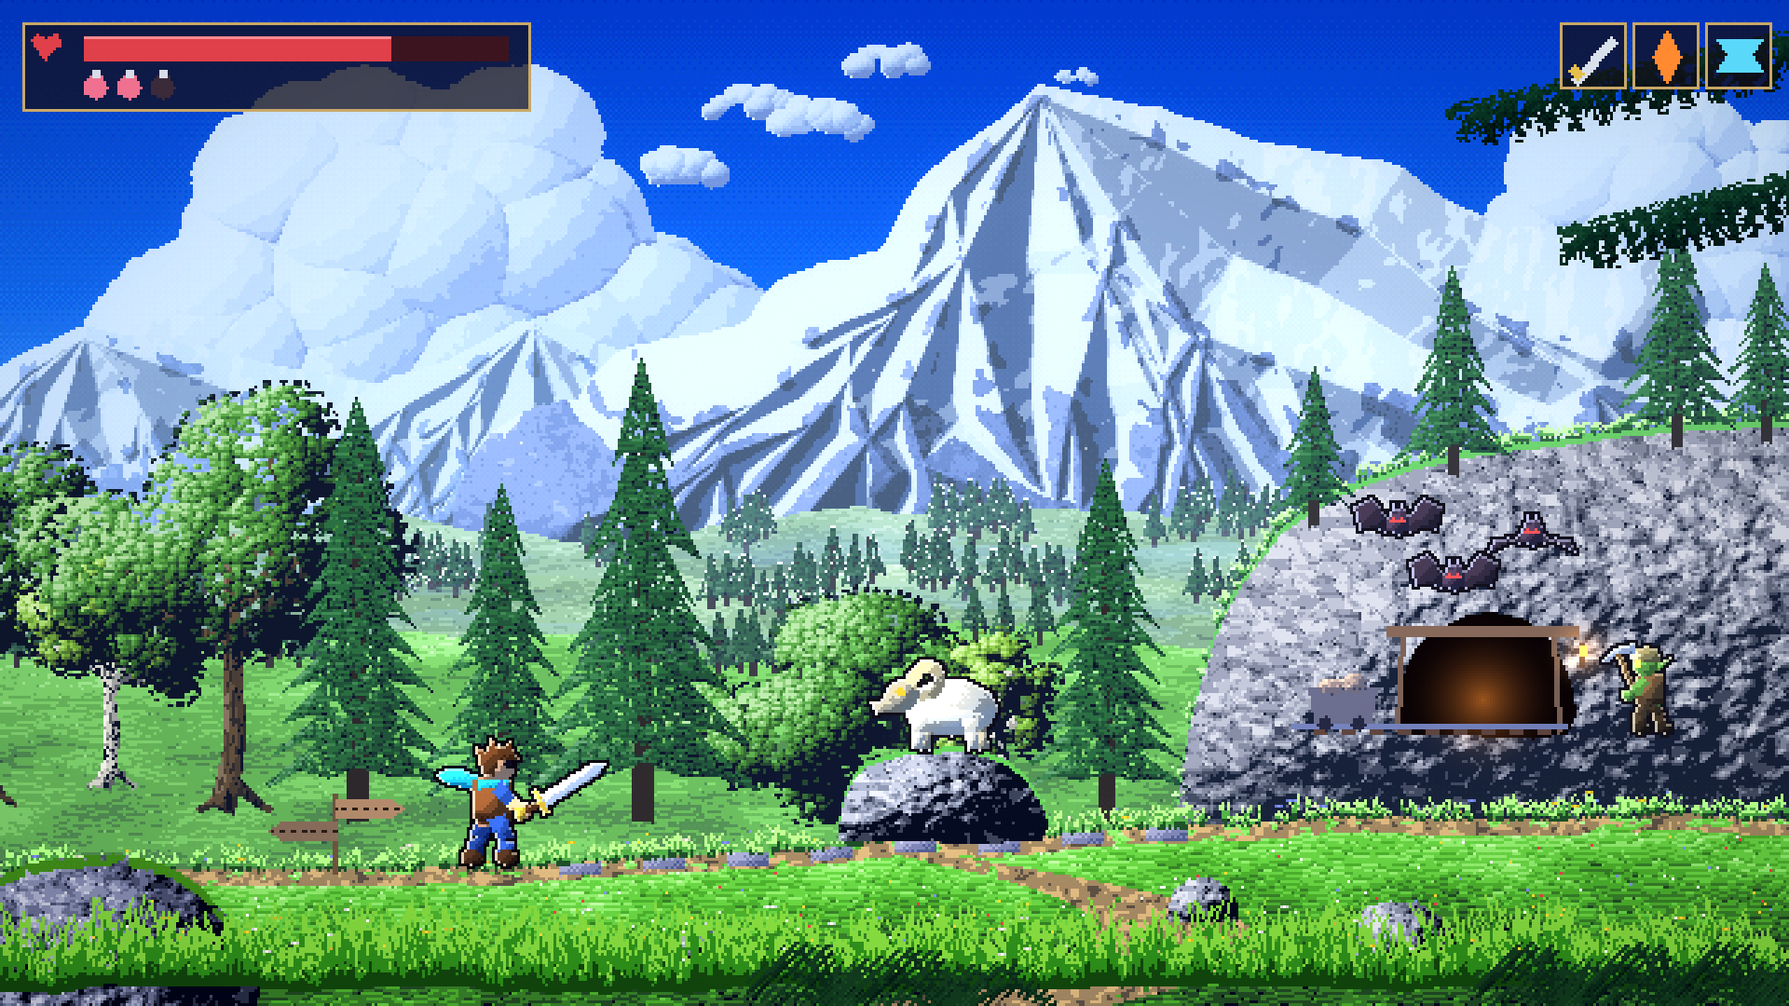
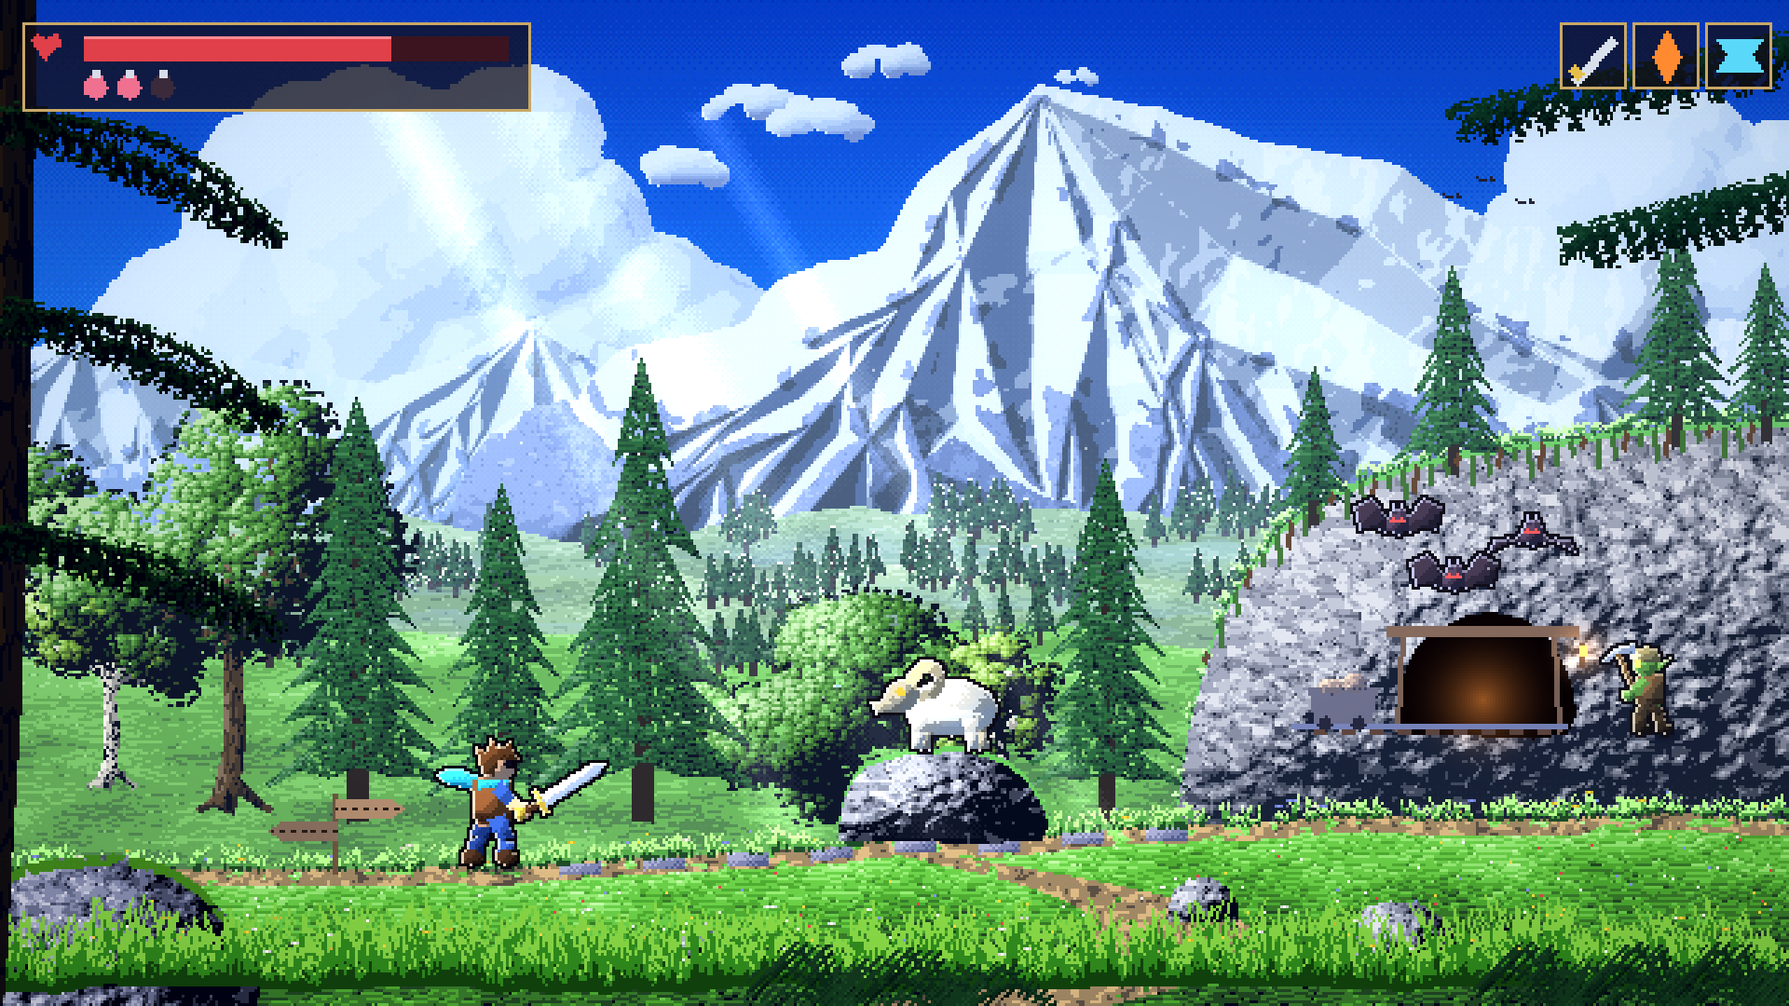
ART13b: sunset town and gothic castle back, with a realism pass on all four stages: backlit facades, mist between layers, light shafts, coloured window light, contact shadows, near-camera framing, more props
Claude-Session: https://claude.ai/code/session_018E1RbT7Agev2Psz4WcAtF7

diff --git a/tools/art/final_stages.py b/tools/art/final_stages.py
@@ -471,6 +471,101 @@ def near_bushes(img, seed, y, alb, xs, r=(14, 26)):
     leaves(img, m, hf * 1.3, alb, 1.0, seed + 1, 5.0, 1.2, ramp=make_ramp(alb, 7, hi_k=0.3) * 0.8)
 
 
+
+# ---------------------------------------------------------------------------------------------- atmosphere and props (round 5)
+
+def haze_band(img, y, thick, a, col, seed, stretch=60, m=None):
+    """A drifting band of mist or haze between two distance layers (as in the swamp), dithered into a few steps."""
+    n = fbm(XX / stretch, YY / 6, 4, seed)
+    band = np.clip(1 - np.abs(YY - y) / thick, 0, 1) ** 1.2
+    v = np.clip(band * (0.35 + n), 0, 1)
+    q = np.floor(v * 5 + BAY * 0.9) / 5 * a
+    if m is not None:
+        q = q * m
+    img[:] = img * (1 - q[..., None]) + C(col) * q[..., None]
+
+
+def light_shafts(img, beams, col, slope, alpha, y0=0, y1=H):
+    """Soft light shafts at an angle: (x at y=0, width, strength) each, quantised in 3 steps."""
+    acc = np.zeros((H, W), np.float32)
+    for (x, wd, k) in beams:
+        acc += np.clip(1 - np.abs(XX - (x + YY * slope)) / wd, 0, 1) * k
+    acc *= (YY >= y0) & (YY < y1)
+    q = np.floor(np.clip(acc, 0, 1) * 3 + BAY * 0.9) / 3
+    img[:] = img + C(col) * (q * alpha)[..., None]
+
+
+def bunting(img, x0, y0, x1, y1, sag, d, seed, cols=('#c83a3a', '#e8b040', '#3a6ac8', '#f0e8d8', '#4a9a5a'), glow_k=0.0, size=1.0):
+    """A string of cloth flags strung across the street, sagging in the middle; backlit cloth glows a little."""
+    rng = np.random.default_rng(seed)
+    n = int(abs(x1 - x0) / (9 * size))
+    pts = [(x0 + (x1 - x0) * t, y0 + (y1 - y0) * t + sag * 4 * t * (1 - t)) for t in np.linspace(0, 1, n * 3 + 1)]
+    fill(img, mask([taper(pts, 0.7 * size, 0.7 * size, len(pts) - 1)]), aerial(C('#2a2020'), d))
+    for k in range(n):
+        t = (k + 0.5) / n
+        x = x0 + (x1 - x0) * t
+        y = y0 + (y1 - y0) * t + sag * 4 * t * (1 - t)
+        sw = rng.uniform(-1, 1)
+        f = mask([poly((x - 3 * size, y), (x + 3 * size, y), (x + sw * size, y + 7 * size))])
+        c = C(cols[k % len(cols)])
+        fill(img, f, aerial(c * (0.75 + glow_k), d))
+        fill(img, f & ~np.roll(f, 1, 0), aerial(mix(c, C('#ffffff'), 0.4), d))
+
+
+def hay_cart(img, x, base, s, d, seed):
+    k = lambda v: v * s
+    body = rect(x - k(20), base - k(14), x + k(18), base - k(7))
+    ramp_fill(img, body, 0.4 + np.where(np.abs((YY - base + k(10)) % max(1, k(2.5))) < 0.6, -0.2, 0), make_ramp(C('#8a5a32'), 6), d)
+    hay, hh = domes([(x - k(8), base - k(16), k(13), k(7), 0), (x + k(6), base - k(17), k(12), k(8), 1)], 0.5, seed)
+    F1, F2, DX, DY, ID = worley(1.2, seed, 0.5, 2.0)
+    ramp_fill(img, hay, 0.25 + macro_light(hh) * 0.6 + (ID - 0.5) * 0.25, make_ramp(C('#d8b048'), 6, hi_k=0.5), d)
+    for wx in (x - k(12), x + k(10)):
+        wm = mask([ell(wx, base - k(5), k(5.5), k(5.5), 0, 20)]) & ~mask([ell(wx, base - k(5), k(4.2), k(4.2), 0, 20)])
+        fill(img, wm, aerial(C('#4a3020'), d))
+        for j in range(6):
+            a = j * math.pi / 3
+            fill(img, mask([cap((wx, base - k(5)), (wx + math.cos(a) * k(4.5), base - k(5) + math.sin(a) * k(4.5)), 0.5)]), aerial(C('#5a3a24'), d))
+    fill(img, mask([cap((x + k(18), base - k(9)), (x + k(34), base - k(4)), 0.8)]), aerial(C('#5a3a24'), d))
+
+
+def lamp_post(img, x, base, h, d, lit_=True):
+    fill(img, rect(x - 1, base - h, x + 1, base), aerial(C('#1e1a1c'), d))
+    fill(img, rect(x - 3, base - 3, x + 3, base), aerial(C('#2a2426'), d))
+    fill(img, mask([cap((x, base - h), (x + 6, base - h), 0.6)]), aerial(C('#1e1a1c'), d))
+    lx, ly = x + 6, base - h + 2
+    fill(img, mask([poly((lx - 3, ly), (lx + 3, ly), (lx + 2, ly + 7), (lx - 2, ly + 7))]), C('#ffd070') if lit_ else aerial(C('#3a3030'), d))
+    fill(img, mask([poly((lx - 4, ly), (lx, ly - 3), (lx + 4, ly))]), aerial(C('#1e1a1c'), d))
+    if lit_:
+        glow(img, lx, ly + 3, 34, C('#ff9a40'), 0.5)
+
+
+def sheep(img, x, y, s, d):
+    b, hb = domes([(x, y - 3 * s, 4 * s, 3 * s, 0), (x - 2 * s, y - 4 * s, 2.5 * s, 2 * s, 1), (x + 2 * s, y - 4 * s, 2.5 * s, 2 * s, 1)], 0.6, int(x))
+    ramp_fill(img, b, 0.4 + macro_light(hb) * 0.5, make_ramp(C('#f0ece0'), 5, hi_k=0.5), d)
+    fill(img, mask([ell(x + 4.5 * s, y - 3.5 * s, 1.4 * s, 1.2 * s, 0, 8)]), aerial(C('#2a2420'), d))
+    for lx in (x - 2 * s, x + 2 * s):
+        fill(img, rect(lx, y - 1, lx + max(1, 0.6 * s), y + 1), aerial(C('#2a2420'), d))
+    ground_shadow(img, x, y + 1, 5 * s, 1.2 * s, 0.25)
+
+
+def backlit(img, before, k):
+    """Everything drawn since `before` stands with the low sun behind it: its faces fall into cool shade (lit windows
+    and lamps keep their glow), and a thin warm rim lights its edges against the sky."""
+    ch = np.abs(img - before).sum(axis=2) > 0.12
+    ch = ch & _dilate(_dilate(ch, 1) & ~np.roll(~ch, 0), 0)
+    mx = img.max(axis=2)
+    bright = (mx > 0.8) & (img[..., 0] > img[..., 2] + 0.2)
+    sh = ch & ~bright
+    img[sh] = img[sh] * np.array([k, k * 0.95, k * 1.12], np.float32)
+    rim = ch & ~np.roll(ch, 1, 0)
+    img[rim] = mix(img[rim], C('#ffc890'), 0.55)
+
+
+def feet_shadows(img, pts, k=0.4):
+    for (x, y, r) in pts:
+        ground_shadow(img, x, y, r, max(1.5, r * 0.22), k)
+
+
 # ============================================================================================== Plains & Forest
 
 def farmhouse(img, x, base, s, d, roof='#b8a060', wall='#e8dcc0', beams='#5a3e2a', seed=0):
@@ -859,6 +954,9 @@ def mountains():
             mist_ = (np.clip(1 - np.abs(YY - (r[None, :] + 14)) / 10, 0, 1) * (fbm(XX / 40, YY / 6, 3, seed) > 0.45))
             a = np.floor(mist_ * 4 + BAY * 0.9) / 4 * 0.35
             img[:] = img * (1 - a[..., None]) + P['haze'] * a[..., None]
+    stream = (np.abs(XX - (240 + 90 * np.sin((YY - 240) / 9.0) + (YY - 240) * 2.2)) < 1.5 + (YY - 240) * 0.15) & (YY > 244) & (YY < 262)
+    fill(img, stream, aerial(C('#9ad0f0'), 0.5))                          # a stream winding down the valley
+    fill(img, stream & (fbm(XX / 2, YY, 1, 3) > 0.6), aerial(C('#ffffff'), 0.5))
     # the cliff with the mine cave on the right
     cliff = mask([spoly((420, 300), (430, 240), (452, 196), (490, 170), (560, 156), (640, 150), (660, 160), (660, 300), n=4)])
     crag(img, cliff, C('#8a8a98'), 0.62, 31, 0.8)
@@ -926,6 +1024,19 @@ def mountains():
     rock = mask([spoly((300, 300), (306, 276), (330, 268), (360, 272), (372, 300), n=4)])
     crag(img, rock, C('#9aa0b4'), 0.85, 51, 0.5)
     fill(img, rock & ~np.roll(rock, 2, 0), lit(C('#5a9a3a'), 0.9, 0.85))
+    for k in range(40):                                                   # grass and roots hanging over the cliff's edge
+        rx_ = 432 + k * 5
+        top_y = int(np.argmax(cliff[:, min(rx_, W - 1)]))
+        ln_ = 3 + (k * 7) % 9
+        fill(img, mask([cap((rx_, top_y + 2), (rx_ + (k % 3 - 1), top_y + 2 + ln_), 0.5)]), aerial(C('#3a6a28') if k % 3 else C('#5a3a24'), 0.62))
+    keep = img.copy()
+    light_shafts(img, [(120, 14, 1.0), (170, 22, 0.7), (230, 10, 0.9)], '#fffaf0', 0.55, 0.12, 40, 300)
+    img[:] = np.where((XX < 420)[..., None], img, keep)
+    for (bx, by) in ((520, 70), (532, 64), (546, 72)):                     # eagles circling
+        img[by, bx - 3:bx] = C('#2a2a3a')
+        img[by - 1, bx - 4] = img[by - 1, bx + 1] = C('#2a2a3a')
+        img[by, bx + 1:bx + 3] = C('#2a2a3a')
+    feet_shadows(img, [(176, int(gy[176]) + 1, 10), (590, 263, 10)], 0.35)
     # characters: the hero on the trail, a ram on the rock, a goblin miner at the cave, bats coming out of it
     key = {'dir': (-0.6, -0.55, 0.6), 'col': (1.05, 1.0, 0.9)}
     amb = (0.44, 0.52, 0.68)
@@ -959,8 +1070,21 @@ def mountains():
             m = mask(S)
             m = m | (_dilate(m, 2) & (np.sin((XX + YY) * 1.6) > 0.1))
             paint(img, m, cylinder(m, 2), C('#2e5a2a'), 1.0, None, 4, 0.1, 0.7, 0.6)
-    motes(img, 40, (0, 120, 640, 300), C('#ffffff'), 8, 0.5)
-    grade(img, 1.12, 1.15)
+    tr = mask([taper([(-14, 362), (-4, 200), (2, -10)], 30, 22, 4)])        # a fir trunk right at the left edge of the camera
+    bark(img, tr, 12, C('#4a3828') * 0.7, 1.0, 91)
+    for (y0_, y1_) in ((40, 70), (110, 136), (190, 210)):                 # drooping boughs off the trunk
+        S = [taper([(4, y0_), (60, y0_ + 12), (100, y1_ + 14)], 3, 1, 4)]
+        for j in range(16):
+            t = j / 16
+            bx_, by_ = 4 + 96 * t, y0_ + (y1_ + 14 - y0_) * t ** 1.3
+            S.append(taper([(bx_, by_), (bx_ - 5, by_ + 9 - 4 * t)], 2.6, 0.7, 2))
+            S.append(taper([(bx_, by_), (bx_ + 4, by_ + 10 - 4 * t)], 2.6, 0.7, 2))
+        bm = mask(S)
+        bm = bm | (_dilate(bm, 2) & (fbm(XX / 1.2, YY / 1.2, 1, y0_) > 0.45))
+        ramp_fill(img, bm, 0.15 + (fbm(XX / 1.3, YY / 2, 2, y0_) - 0.5) * 0.4 + np.where(bm & ~np.roll(bm, 2, 0), 0.3, 0),
+                  make_ramp(C('#1e4a2a'), 6, hi_k=0.3) * 0.75, 1.0)
+    motes(img, 60, (0, 120, 640, 300), C('#ffffff'), 8, 0.5)
+    grade(img, 1.14, 1.05)
     bloom(img, 0.95, 5, 0.4)
     vignette(img, 0.2)
     hud(img)
@@ -1200,7 +1324,16 @@ def city():
     # sunset clouds, lit from below and from the sun's side
     clouds(img, [(110, 70, 200, 22), (420, 96, 260, 20), (620, 150, 120, 12), (250, 150, 160, 12)], 4, alb='#e0a0a8', d=0.3)
     # the castle on its hill, far away, and the city walls in front of it
-    castle_far(img, 200, 190, 1.0, 0.2, 3)
+    before = img.copy()
+    castle_far(img, 200, 190, 1.0, 0.12, 3)
+    ch = np.abs(img - before).sum(axis=2) > 0.01
+    rimc = ch & ~np.roll(ch, -1, 1)
+    img[ch] = mix(img[ch], C('#6a4a6e'), 0.6)
+    img[rimc] = mix(img[rimc], C('#ffd0a0'), 0.7)
+    for (bx, by) in ((470, 120), (480, 114), (492, 122), (430, 140), (442, 136)):                  # birds against the sunset
+        img[by, bx - 2:bx] = C('#3a2030')
+        img[by - 1, bx - 3] = img[by - 1, bx + 1] = C('#3a2030')
+    haze_band(img, 196, 22, 0.55, '#f0a088', 31, 50)
     walls = rect(-10, 196, 660, 214)
     face(img, walls, C('#8a7a7a'), 0.25, 0.2)
     for cx in range(-10, 660, 6):
@@ -1212,6 +1345,7 @@ def city():
             face(img, rect(cx, 171, cx + 3, 176), C('#8a7a7a'), 0.55, 0.2)
         fill(img, mask([cap((tx, 171), (tx, 160), 0.5)]), aerial(C('#2a2028'), 0.2))
         fill(img, mask([poly((tx, 160), (tx + 9, 163), (tx, 166))]), aerial(C('#c82a2a'), 0.3))
+    haze_band(img, 218, 14, 0.45, '#f0a088', 32, 50)
     # far rooftops, a cathedral with a spire and a rose window
     for k in range(26):
         hx = -20 + k * 26 + rng.uniform(-6, 6)
@@ -1238,9 +1372,11 @@ def city():
         wx = cx - 22 + k * 18
         fill(img, rect(wx, 176, wx + 7, 214) & ~((YY < 180) & (np.abs(XX - wx - 3.5) > 2.5)), aerial(C('#ffb050'), 0.4))
     # the middle row of houses
+    before = img.copy()
     for k in range(9):
         hx = -30 + k * 76 + rng.uniform(-8, 8)
         house(img, hx, 262, rng.uniform(34, 46), int(rng.integers(3, 5)), 0.5, 200 + k, fh=16, roof=rng.choice(['gable', 'hip']), lights=0.45, wq=0.32)
+    backlit(img, before, 0.78)
     # a gap of evening haze between the rows
     a = (np.clip(1 - np.abs(YY - 250) / 30, 0, 1) * 0.35)
     a = np.floor(a * 6 + BAY * 0.9) / 6
@@ -1250,8 +1386,10 @@ def city():
     xs = [(-14, 58, 4, True), (48, 62, 3, False), (114, 54, 4, True), (178, 66, 3, True), (380, 60, 4, False), (446, 58, 3, True),
           (508, 70, 4, True), (582, 64, 3, False)]
     tops = {}
+    before_f = img.copy()
     for i, (hx, w, fl, shop) in enumerate(xs):
         tops[hx] = house(img, hx, street - 4, w, fl, 0.84, 300 + i, fh=24, roof='gable' if i % 3 else 'hip', shop=shop, lights=0.45, wq=0.22)
+    backlit(img, before_f, 0.62)
     sun_band(img, 120, 250, '#ff9a50', 0.22)
     # the side street: an arch and a lantern, the far street receding
     fill(img, rect(250, 190, 372, 300), lit(C('#6a5060'), 0.3, 0.5))
@@ -1298,6 +1436,22 @@ def city():
         cr = rect(bx, by - 9, bx + 10, by)
         face(img, cr, C('#a07848'), 0.7, 0.9)
         fill(img, cr & ((np.abs(XX - bx - 5) < 0.5) | (np.abs(YY - by + 4.5) < 0.5) | (XX > bx + 8)), lit(C('#6a4a2a'), 0.5, 0.9))
+    # light from the low sun streaming down the side street through the arch onto the cobbles
+    keep = img.copy()
+    light_shafts(img, [(312 - 290 * 0.25, 30, 1.0)], '#ffc890', 0.25, 0.22, 214, 360)
+    lim = mask([poly((268, 214), (356, 214), (420, 360), (240, 360))])
+    img[~lim] = keep[~lim]
+    for (pg_x, pg_y) in ((160, 186), (168, 187), (430, 178)):                                     # pigeons on a ridge
+        fill(img, mask([ell(pg_x, pg_y, 2.2, 1.4, 0, 8)]), C('#3a3038'))
+        img[pg_y - 1, pg_x + 2] = C('#3a3038')
+    bunting(img, 250, 226, 372, 226, 10, 0.6, 5, glow_k=0.25)                                  # flags across the side street
+    for (lx_, c_) in ((276, '#e8e0d0'), (290, '#8a3a3a'), (304, '#5a7a9a'), (330, '#e8e0d0'), (346, '#c8a040')):   # laundry
+        fill(img, rect(lx_, 247, lx_ + 8, 258), aerial(C(c_) * 0.8, 0.6))
+    fill(img, mask([cap((262, 246), (362, 246), 0.5)]), aerial(C('#2a2020'), 0.6))
+    hay_cart(img, 520, street + 6, 1.1, 0.88, 61)
+    lamp_post(img, 236, street + 8, 40, 0.9)
+    lamp_post(img, 470, street + 8, 40, 0.9)
+    feet_shadows(img, [(176, street + 6, 12), (290, street + 4, 16), (362, street + 4, 10), (422, street + 4, 10), (600, street + 6, 18)], 0.5)
     # characters: soldiers with shields on the street, a crossbowman on the roofs, the hero, a cannon on the wall
     key = {'dir': (0.8, -0.3, 0.5), 'col': (1.1, 0.78, 0.55)}
     amb = (0.36, 0.34, 0.55)
@@ -1325,7 +1479,12 @@ def city():
     glow(img, 50, 163, 60, C('#ff9a40'), 0.45)
     near = mask([ell(-6, 370, 40, 46, 0, 24)])
     paint(img, near, cylinder(near, 16), C('#5a3a22'), 1.0, np.where(np.abs(np.abs(YY - 340) - 10) < 1.2, -0.5, 0), 4, 0.0, 0.7, 0.6)
-    motes(img, 50, (0, 150, 640, 300), C('#ffd8a0'), 6, 0.6)
+    bunting(img, 30, 70, 660, 96, 50, 1.0, 9, glow_k=-0.25, size=2.2)                                      # flags right in front of the camera
+    nb = mask([ell(606, 356, 44, 30, 0, 30), ell(556, 370, 26, 24, 0, 24)])                        # dark barrel and sacks close to the lens
+    fill(img, nb, C('#140c0a'))
+    fill(img, nb & ~np.roll(nb, 2, 0), C('#5a3424'))
+    fill(img, mask([ell(606, 356, 44, 30, 0, 30)]) & (np.abs(np.abs(XX - 606) - 26) < 2), C('#0a0606'))
+    motes(img, 80, (0, 150, 640, 300), C('#ffd8a0'), 6, 0.6)
     grade(img, 1.18, 1.1)
     bloom(img, 0.75)
     vignette(img, 0.25)
@@ -1576,6 +1735,42 @@ def castle():
         a2 = ang + math.radians(5 * j)
         tb = mask([cap((px_ + math.sin(a2) * 150 - 18, py_ + math.cos(a2) * 150), (px_ + math.sin(a2) * 150 + 18, py_ + math.cos(a2) * 150 - 6), 2)])
         fill(img, tb & ~blade, C('#c8d0e0'), 0.25 / j)
+    # torch light pooling on the floor, cold mist creeping along it, dust drifting in the window light
+    for (tx_, ty_) in ((52, floor_y + 6), (222, floor_y + 6), (418, floor_y + 6), (588, floor_y + 6)):
+        dd = np.hypot((XX - tx_) / 2.6, YY - ty_)
+        a = np.floor(np.clip(1 - dd / 22, 0, 1) * 4 + BAY * 0.9) / 4 * 0.35 * (YY > floor_y)
+        img[:] = img + C('#ff9a40') * a[..., None]
+    for wx in (96, 232, 408, 544):                                        # stained-glass colours spilling onto the floor
+        strip = img[60:200, wx - 18:wx + 18].mean(axis=0)
+        for xx in range(36):
+            c = strip[xx] / max(1e-3, strip[xx].max())
+            for yy in range(floor_y + 2, floor_y + 24):
+                x_ = wx - 18 + xx + int((yy - floor_y) * 1.6) + 20
+                if 0 <= x_ < W and (BAY[yy, x_] < 0.55):
+                    img[yy, x_] = img[yy, x_] + c * 0.28
+    haze_band(img, floor_y - 4, 16, 0.4, '#8a7a98', 33, 40)
+    haze_band(img, 212, 30, 0.18, '#6a5a78', 34, 70)
+    rng5 = np.random.default_rng(35)
+    for _ in range(200):
+        x_, y_ = int(rng5.uniform(0, W)), int(rng5.uniform(40, floor_y))
+        if acc[y_, x_] > 0.3:
+            img[y_, x_] = mix(img[y_, x_], C('#e8eeff'), 0.8)
+    for (bx_, by_) in ((330, floor_y + 20), (520, floor_y + 22), (120, floor_y + 18)):           # cracked tiles, rubble
+        cr_ = (np.abs(fbm(XX / 6, YY / 3, 3, bx_) - 0.5) < 0.02) & (np.hypot(XX - bx_, (YY - by_) * 2) < 26) & (YY > floor_y + 3)
+        fill(img, cr_, C('#0e080c'))
+        for j in range(5):
+            rx_, ry_ = bx_ + rng5.uniform(-14, 14), by_ + rng5.uniform(-3, 3)
+            fill(img, mask([ell(rx_, ry_, rng5.uniform(1, 2.4), rng5.uniform(0.8, 1.6), 0, 8)]), lit(C('#8a7a7a'), 0.5, 0.9))
+    for (cx_, cy_) in ((100, floor_y), (540, floor_y)):                                          # tall floor candelabras, dripping wax
+        fill(img, rect(cx_ - 1, cy_ - 46, cx_ + 1, cy_), lit(C('#c8a040'), 0.6, 0.8))
+        fill(img, mask([poly((cx_ - 6, cy_), (cx_ + 6, cy_), (cx_ + 2, cy_ - 4), (cx_ - 2, cy_ - 4))]), lit(C('#c8a040'), 0.6, 0.8))
+        fill(img, mask([cap((cx_ - 9, cy_ - 46), (cx_ + 9, cy_ - 46), 1.0)]), lit(C('#c8a040'), 0.7, 0.8))
+        for j in (-8, 0, 8):
+            fill(img, rect(cx_ + j - 1, cy_ - 56 + (j == 0) * -3, cx_ + j + 2, cy_ - 46), C('#efe6d0'))
+            img[cy_ - 50 + (j == 0) * -3, cx_ + j + 1] = C('#d8cbb0')
+            img[cy_ - 59 + (j == 0) * -3:cy_ - 56 + (j == 0) * -3, cx_ + j] = C('#ffd070')
+            glow(img, cx_ + j, cy_ - 58, 16, C('#ff9a40'), 0.45)
+    feet_shadows(img, [(150, floor_y + 2, 12), (488, floor_y + 2, 12), (572, floor_y + 2, 12)], 0.5)
     # characters: royal guards with halberds, the gargoyle waking up, the hero
     key = {'dir': (-0.3, -0.6, 0.6), 'col': (0.8, 0.85, 1.05)}
     amb = (0.42, 0.3, 0.4)
@@ -1598,6 +1793,17 @@ def castle():
     for j in range(14):
         cy_ = j * 9
         fill(img, mask([ell(586, cy_, 2, 3.4, 0, 10)]) & ~mask([ell(586, cy_, 0.8, 1.8, 0, 8)]), lit(C('#5a5050'), 0.6, 1.0))
+    vault = rect(-10, -10, 660, 14) | (mask([ell(320, 14, 340, 40, 0, 60)]) == False) & (YY < 40)   # a dark vault rib framing the top
+    vault &= YY < 40
+    fill(img, vault, C('#120a10'))
+    fill(img, vault & ~np.roll(vault, -1, 0) & (YY > 10), C('#4a3442'))
+    for (cwx, cwy, sg) in ((40, 30, 1), (600, 30, -1)):                                            # cobwebs in the corners of the vault
+        for k in range(6):
+            a = math.radians(k * 18)
+            fill(img, mask([cap((cwx - sg * 20, cwy - 20), (cwx - sg * 20 + sg * math.cos(a) * 40, cwy - 20 + math.sin(a) * 40), 0.35)]), C('#c8c0d0'), 0.35)
+        for r_ in (10, 20, 30):
+            arc_ = (np.abs(np.hypot(XX - cwx + sg * 20, YY - cwy + 20) - r_) < 0.5) & ((XX - cwx + sg * 20) * sg > 0) & (YY > cwy - 20)
+            fill(img, arc_, C('#c8c0d0'), 0.3)
     rail = rect(-10, 326, 660, 332)                                     # a dark stone balustrade right in front of the camera
     for k in range(-1, 32):
         bx = k * 22 + 6
@@ -1637,14 +1843,15 @@ def cumulus(img, cx, base, w, h, seed, d=0.1, ramp=None, flat=True, lean=0.0):
     m, hf = domes(puffs, 0.15, seed)
     if flat:
         m &= YY < base + 2 + 2 * fbm(XX / 9, YY * 0, 2, seed)
-    nx, ny = _DN['nx'], _DN['ny']
+    nx, ny = _blur(_DN['nx'].astype(np.float32), 2.2), _blur(_DN['ny'].astype(np.float32), 2.2)
     L = P['L']
     nz = np.sqrt(np.clip(1 - nx * nx * 0.8 - ny * ny * 0.8, 0.05, 1))
     puff = np.clip((nx * L[0] + ny * L[1] + nz * L[2] * 0.7) / np.sqrt(nx * nx + ny * ny + nz * nz), 0, 1)
+    puff = puff * 0.6 + macro_light(_blur(np.where(m, hf, 0).astype(np.float32), 3.0) * 0.6) * 0.4
     up = np.clip((base - YY) / max(1.0, h), 0, 1)
     side = np.clip((XX - cx) / (w / 2 + 1) * np.sign(L[0]), -1, 1)
     raw = np.where(m, hf, 0).astype(np.float32)
-    ao = np.clip((_blur(raw, 2.0) - raw) / 3, 0, 1)
+    ao = np.clip((_blur(raw, 2.0) - raw) / 3, 0, 1) * 0.6
     shadow_side = np.clip(0.6 - puff, 0, 1)
     t = 0.2 + puff * 0.5 + up * 0.3 + side * 0.14 - ao * 0.5 * shadow_side - np.clip((YY - base + h * 0.22) / (h * 0.22 + 1), 0, 1) * 0.3
     t = t + (fbm(XX / 3, YY / 3, 2, seed + 1) - 0.5) * 0.08
@@ -1737,7 +1944,9 @@ def plains4():
     # far blue hills, a line of trees, a farm, golden fields rolling toward us
     hz = hills(214, 14, 90, 5)
     land(img, hz, C('#6a9ad8'), 0.05, 5, lo=0.4, rough=3)
+    haze_band(img, 216, 12, 0.5, '#d8ecfa', 41, 80)
     treeline(img, 224, 12, -10, 660, 0.18, 21, C('#2e6a4a'))
+    haze_band(img, 228, 8, 0.35, '#d8ecfa', 42, 80)
     farmhouse(img, 300, 226, 0.7, 0.22, roof='#b84a32', seed=3)
     barn(img, 336, 226, 0.6, 0.22)
     r1 = hills(230, 6, 60, 31)
@@ -1749,6 +1958,14 @@ def plains4():
     F1, F2, DX, DY, ID = worley(1.6, 33, 1.4, 0.7)
     ramp_fill(img, m2, 0.3 + fbm(XX / 30, YY / 6, 3, 33) * 0.45 + (0.5 - DY) * 0.2 + (ID - 0.5) * 0.1, ramp_g, 0.4)
     windmill(img, 410, int(r2[410]) + 4, 1.4, 0.5, 0.5)
+    for (hx, hy) in ((250, 244), (268, 246), (470, 242), (560, 248), (590, 246)):           # hay bales in the cut field
+        bm, bh = domes([(hx, hy - 2, 4, 3, 0)], 0.2, hx)
+        bm &= YY < hy + 1
+        F1, F2, DX, DY, ID = worley(0.9, hx, 0.4, 2.0)
+        ramp_fill(img, bm, 0.2 + macro_light(bh) * 0.7 + (ID - 0.5) * 0.2, make_ramp(C('#d8b048'), 6, hi_k=0.5), 0.4)
+        ground_shadow(img, hx + 2, hy + 1, 5, 1.2, 0.35)
+    for (sx_, sy_) in ((150, 257), (160, 258), (176, 256), (600, 258), (612, 259)):         # sheep grazing on the green strip
+        sheep(img, sx_, sy_, 0.9, 0.42)
     r3 = hills(262, 6, 80, 34)
     m3 = (YY >= r3[None, :]) & (YY < 300)
     wheat_field(img, m3, 0.6, 34, 1.0)
@@ -1772,6 +1989,11 @@ def plains4():
     wheat_field(img, g & (YY > gy[None, :] + 12 + 3 * fbm(XX / 12, YY * 0, 2, 45)), 0.88, 46, 1.2)
     tufts(img, g & ~np.roll(g, 1, 0), (aerial(C('#2e6a28'), 0.86), aerial(C('#5aa83a'), 0.86), aerial(C('#b8e070'), 0.86)),
           42, 1.6, 3, 10, [C('#f4f0e0'), C('#4a7af0'), C('#f6d84a')])
+    keep = img.copy()                                                    # sun shafts through the forest edge
+    light_shafts(img, [(-40, 10, 1.0), (10, 16, 0.8), (60, 8, 1.0), (110, 12, 0.7)], '#fff4c8', 0.75, 0.14, 120, 300)
+    lim = (XX < 240)[..., None]
+    img[:] = np.where(lim, img, keep)
+    feet_shadows(img, [(180, int(gy[180]) + 1, 10), (352, int(gy[352]) + 2, 14), (412, int(gy[412]) + 2, 14), (262, int(gy[262]) + 1, 12)], 0.35)
     # characters
     key = {'dir': (0.55, -0.6, 0.6), 'col': (1.1, 1.0, 0.85)}
     amb = (0.4, 0.48, 0.68)
@@ -1797,7 +2019,7 @@ def plains4():
         img[by, bx - 2:bx] = C('#ffffff')
         img[by - 1, bx - 3] = img[by - 1, bx + 1] = C('#ffffff')
     motes(img, 50, (40, 150, 640, 300), C('#fff8d8'), 5, 0.6)
-    grade(img, 1.12, 1.15)
+    grade(img, 1.14, 1.05)
     bloom(img, 0.95, 5, 0.4)
     vignette(img, 0.15)
     hud(img)
@@ -2276,7 +2498,7 @@ def castle4():
     return img
 
 
-SCENES = {'plains': plains4, 'mountains': mountains, 'city': city4, 'castle': castle4}
+SCENES = {'plains': plains4, 'mountains': mountains, 'city': city, 'castle': castle}
 
 
 def build(only=None):
